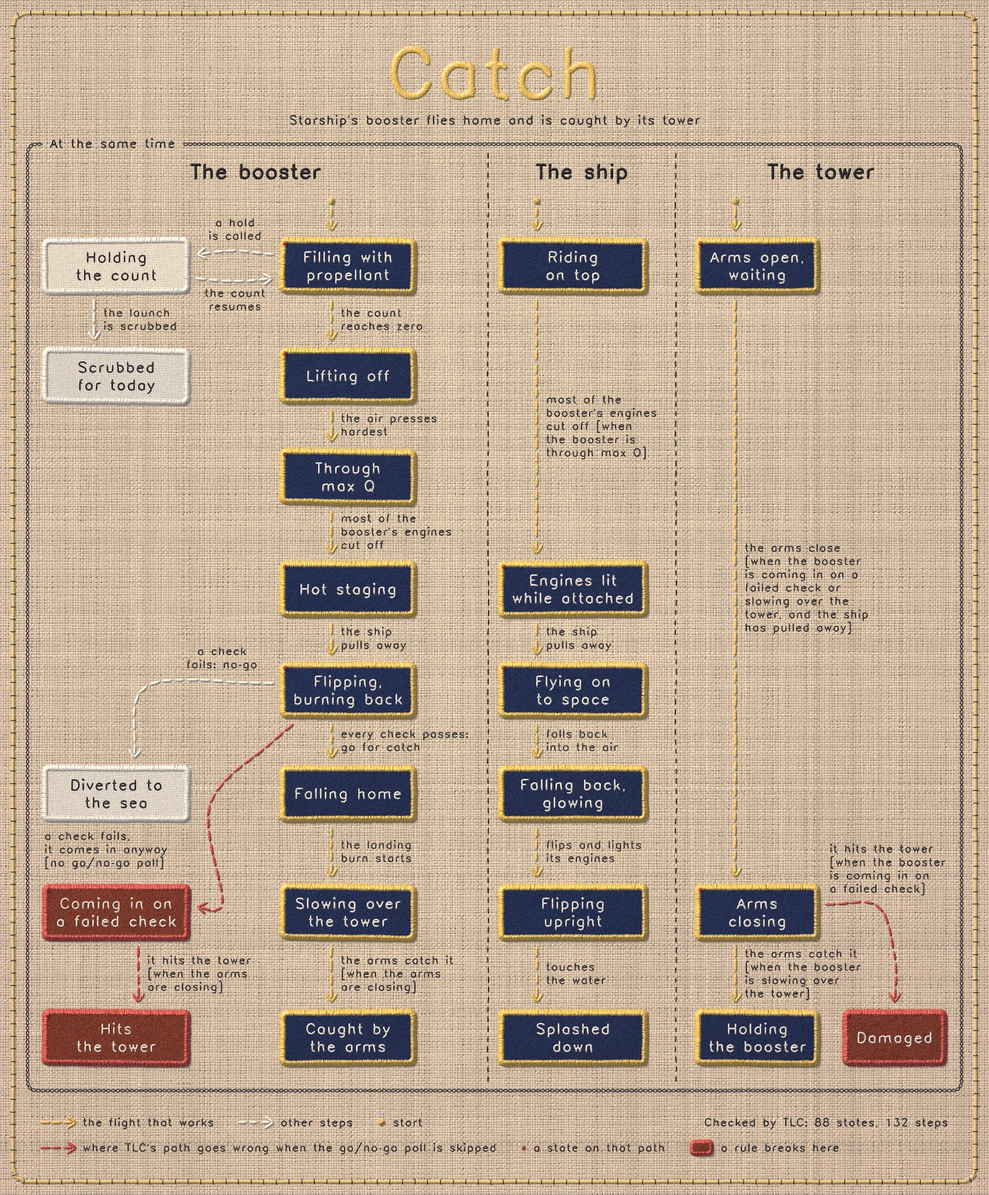
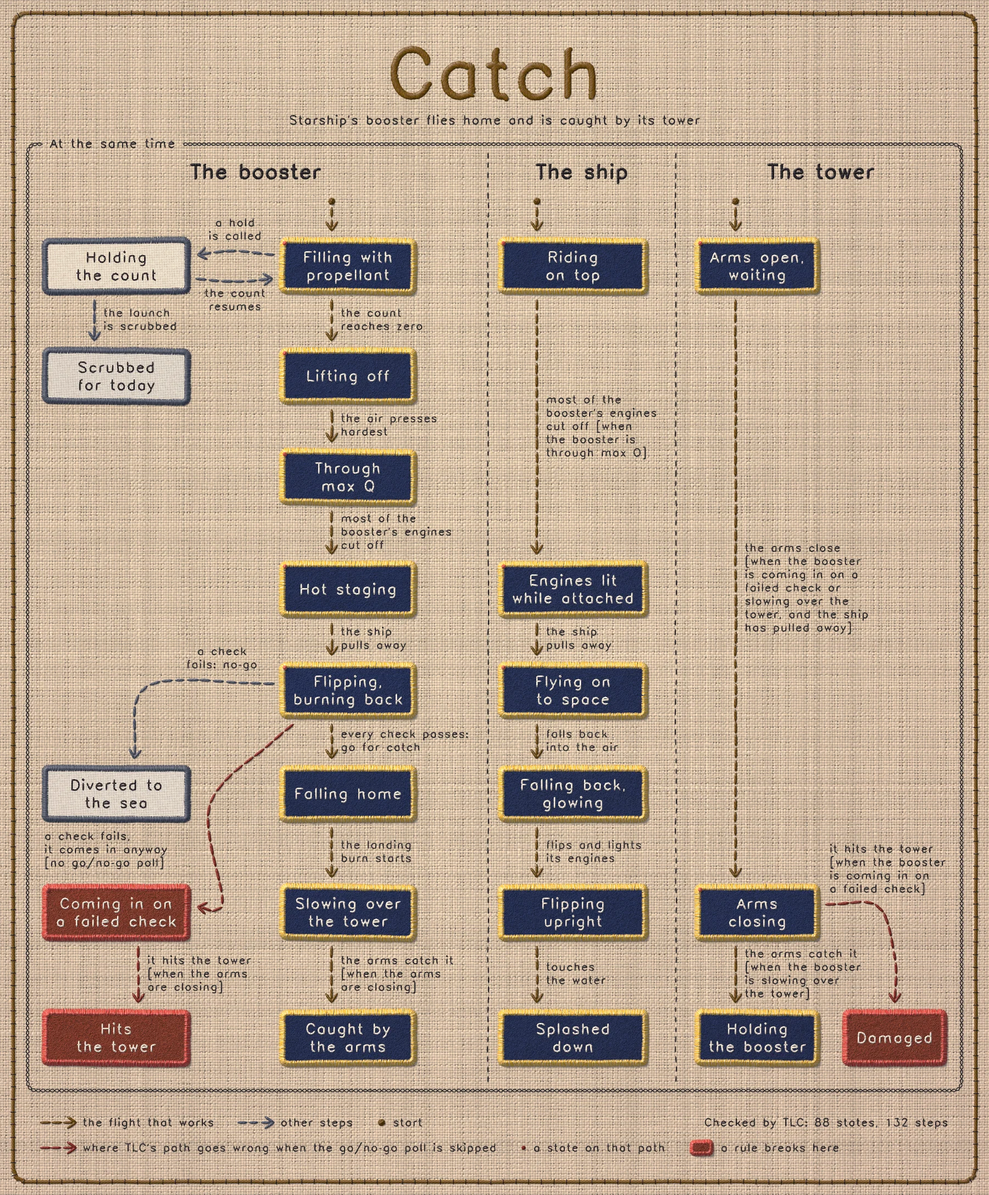
Catch: stitch the sampler's threads in colours that meet WCAG 2.2 AA
The gold thread on the linen sat at about 1:1 against it, the cream
stitches at 1.4:1 and the red path at 2.8:1. Thread stitched straight onto
the linen is now a deep antique gold for the flight that works and the
title, a darker brick red for the bug path, and slate grey for every other
way it can go, all well over 3:1 at the stitch cores. The bright gold
stays on the navy felt borders, and the knots marking the bug path on
navy felt are a lighter red so they stand out there too. The page text
and the alt text now say grey instead of cream.

diff --git a/catch/art/sampler.js b/catch/art/sampler.js
@@ -18,6 +18,7 @@ const ARG = (k, d) => { const a = process.argv.find((s) => s.startsWith('--' + k
 const PAL = {
   ink: '#1d1a1e', gold: '#e2b33f', goldPale: '#f6ecd2', red: '#c4453a', redPale: '#ef9a8c', cream: '#efe6d2',
   navy: '#26304f', plum: '#3a2f45', rust: '#7a3b2c', linen: '#e9dfcc',
+  oldGold: '#674709', oldGoldPale: '#9a6d22', brick: '#7f2820', brickPale: '#9c3a2c', slate: '#4a5160', slatePale: '#6a717e', knotRed: '#e2584a',
 };
 
 const probe = createCanvas(8, 8).getContext('2d');
@@ -61,15 +62,15 @@ const BUG = new Set(['s0', 's2', 's3', 's5', 's6', 's9', 's11', 's13', 's14', 's
 const REGIONS = [['booster', 'The booster'], ['ship', 'The ship'], ['tower', 'The tower']];
 
 const ARROWS = [
-  ['s0', 's1', ['a hold', 'is called'], 'cream'],
+  ['s0', 's1', ['a hold', 'is called'], 'grey'],
   ['s0', 's2', ['the count', 'reaches zero'], 'gold'],
-  ['s1', 's0', ['the count', 'resumes'], 'cream'],
-  ['s1', 's4', ['the launch', 'is scrubbed'], 'cream'],
+  ['s1', 's0', ['the count', 'resumes'], 'grey'],
+  ['s1', 's4', ['the launch', 'is scrubbed'], 'grey'],
   ['s2', 's3', ['the air presses', 'hardest'], 'gold'],
   ['s3', 's5', ['most of the', 'booster’s engines', 'cut off'], 'gold'],
   ['s5', 's6', ['the ship', 'pulls away'], 'gold'],
   ['s6', 's7', ['every check passes:', 'go for catch'], 'gold'],
-  ['s6', 's8', ['a check', 'fails: no-go'], 'cream'],
+  ['s6', 's8', ['a check', 'fails: no-go'], 'grey'],
   ['s6', 's9', ['a check fails,', 'it comes in anyway', '[no go/no-go poll]'], 'red'],
   ['s7', 's10', ['the landing', 'burn starts'], 'gold'],
   ['s9', 's11', ['it hits the tower', '[when the arms', 'are closing]'], 'red'],
@@ -215,13 +216,13 @@ async function wire(L, R, LB) {
   g.fillStyle = '#d9cdb3'; g.fillRect(0, 0, L.W, L.H);
   g.strokeStyle = PAL.ink; g.lineWidth = 2; g.strokeRect(L.F.x0, L.F.y0, L.F.x1 - L.F.x0, L.F.y1 - L.F.y0);
   g.setLineDash([12, 9]); for (const x of L.seps) { g.beginPath(); g.moveTo(x, L.F.y0 + 14); g.lineTo(x, L.F.y1 - 14); g.stroke(); } g.setLineDash([]);
-  const fill = { path: PAL.navy, side: PAL.linen, breaks: PAL.rust }, edge = { path: PAL.gold, side: PAL.cream, breaks: PAL.red };
+  const fill = { path: PAL.navy, side: PAL.linen, breaks: PAL.rust }, edge = { path: PAL.gold, side: PAL.slate, breaks: PAL.red };
   for (const s of STATES) {
     const b = L.P[s.id]; g.fillStyle = fill[s.kind]; g.fillRect(b.x0, b.y0, b.w, b.h); g.strokeStyle = edge[s.kind]; g.lineWidth = 9; g.strokeRect(b.x0 + 4.5, b.y0 + 4.5, b.w - 9, b.h - 9);
     g.fillStyle = s.kind === 'side' ? PAL.ink : PAL.cream; g.font = `${SZ.state}px "${FACE}"`; g.textAlign = 'center';
     const n = s.lines.length; s.lines.forEach((t, i) => g.fillText(t, b.cx, b.cy + (i - (n - 1) / 2) * SZ.state * LP + SZ.state * 0.36));
   }
-  const tc = { gold: PAL.gold, red: PAL.red, cream: '#f8f2e4' };
+  const tc = { gold: PAL.oldGold, red: PAL.brick, grey: PAL.slate };
   for (const a of ARROWS) {
     const pts = smoothPath(R[a.from + '>' + a.to]); g.strokeStyle = tc[a.thread]; g.lineWidth = 4; g.setLineDash([13, 7]);
     g.beginPath(); pts.forEach((p, i) => (i ? g.lineTo(...p) : g.moveTo(...p))); g.stroke(); g.setLineDash([]);
@@ -258,9 +259,13 @@ const TH = {
   red: { col: lin(PAL.red), pale: lin(PAL.redPale), plies: 6, spec: 0.28 },
   cream: { col: lin(PAL.cream), pale: null, plies: 3, spec: 0.22 },
   ink: { col: lin(PAL.ink), pale: lin('#3a343c'), plies: 5, spec: 0.22 },
+  oldGold: { col: lin(PAL.oldGold), pale: lin(PAL.oldGoldPale), plies: 6, spec: 0.3 },
+  brick: { col: lin(PAL.brick), pale: lin(PAL.brickPale), plies: 6, spec: 0.26 },
+  slate: { col: lin(PAL.slate), pale: lin(PAL.slatePale), plies: 4, spec: 0.2 },
+  knot: { col: lin(PAL.knotRed), pale: lin(PAL.redPale), plies: 6, spec: 0.28 },
 };
 
-const RTH = { gold: { ...TH.gold, plies: 7 }, red: { ...TH.red, plies: 7 }, cream: TH.cream, ink: TH.ink };
+const RTH = { gold: { ...TH.oldGold, plies: 7 }, red: { ...TH.brick, plies: 7 }, grey: TH.slate, ink: TH.ink };
 const RUN = { w: 5.0, dash: 18, gap: 5.5, head: true, headLen: 18, flat: 0.5, taper: 0.74 };
 
 function cloth(w, h) { const n = w * h; return { w, h, H: new Float32Array(n), R: new Float32Array(n), G: new Float32Array(n), B: new Float32Array(n), S: new Float32Array(n) }; }
@@ -699,12 +704,12 @@ async function render(L, R, LB) {
   const linenC = lin(PAL.linen);
   weave(C, { pitch: 4.7 * K, thick: 0.74 * K, arc: 0.44 * K, color: mixc(linenC, lin('#c6ae88'), 0.62), seed: 'ground' });
   log('linen');
-  cordFrame(C, 24, 24, Wf - 24, Hf - 24, 20, { w: 6.4, th: { ...TH.gold, plies: 3 }, tack: 23, tw: 1.7, tackTh: TH.ink });
+  cordFrame(C, 24, 24, Wf - 24, Hf - 24, 20, { w: 6.4, th: { ...TH.oldGold, plies: 3 }, tack: 23, tw: 1.7, tackTh: TH.ink });
   log('cord');
   const FB = 1.35 * K, OV = 4.3;
   const looks = {
     path: { kind: 'felt', color: lin(PAL.navy), thick: 5.4 * K, edge: TH.gold, text: TH.cream },
-    side: { kind: 'linen', color: linenC, thick: 1.5 * K, edge: TH.cream, text: TH.ink },
+    side: { kind: 'linen', color: linenC, thick: 1.5 * K, edge: TH.slate, text: TH.ink },
     breaks: { kind: 'felt', color: lin(PAL.rust), thick: 5.4 * K, edge: TH.red, text: TH.cream },
   };
   for (const s of STATES) {
@@ -716,7 +721,7 @@ async function render(L, R, LB) {
     const n = s.lines.length, all = [];
     s.lines.forEach((t, i) => { const w = textW(t, SZ.state), bl = b.cy + (i - (n - 1) / 2) * SZ.state * LP + SZ.state * 0.36; all.push(...letterStitches(t, SZ.state, b.cx - w / 2, bl, { th: lk.text })); });
     sew(C, all);
-    if (BUG.has(s.id)) knot(C, b.x0 + 10.5, b.y0 + 10.5, 4.6, TH.red, 'bug' + s.id);
+    if (BUG.has(s.id)) knot(C, b.x0 + 10.5, b.y0 + 10.5, 4.6, TH.knot, 'bug' + s.id);
   }
   log('patches');
   const F = L.F, fr = 14, frameLabel = 'At the same time', flx = F.x0 + 40, flw = textW(frameLabel, SZ.frame);
@@ -728,7 +733,7 @@ async function render(L, R, LB) {
   for (const [r, name] of REGIONS) { const w = textW(name, SZ.region); stitchText(C, name, SZ.region, (L.col[r][0] + L.col[r][1]) / 2 - w / 2, F.y0 + 62, { th: TH.ink, style: 'satin', sp: 1.5, tw: 1.8, slant: 0.32, hump: 0.5 }); }
   for (const [first, x] of [['s0', L.X.b], ['s13', L.X.ship], ['s19', L.X.tower]]) {
     const ky = F.y0 + 104;
-    knot(C, x, ky, 7.6, TH.gold, 'start' + first);
+    knot(C, x, ky, 7.6, TH.oldGold, 'start' + first);
     running(C, [[x, ky + 12], [x, L.P[first].y0 - 13]], { ...RUN, th: RTH.gold, seed: 'start' + first, wob: 0 });
   }
   log('frame');
@@ -737,7 +742,7 @@ async function render(L, R, LB) {
   for (const [k, b] of Object.entries(LB)) stitchLines(C, b.lines, SZ.label, b, b.align, { th: TH.ink });
   log('labels');
   const tw = textW('Catch', SZ.title);
-  stitchText(C, 'Catch', SZ.title, W / 2 - tw / 2, 176, { th: TH.gold, style: 'satin', sp: 2.4, tw: 2.8, slant: 0.5, hump: 1.6, over: 0.35 });
+  stitchText(C, 'Catch', SZ.title, W / 2 - tw / 2, 176, { th: TH.oldGold, style: 'satin', sp: 2.4, tw: 2.8, slant: 0.5, hump: 1.6, over: 0.35 });
   const sub = 'Starship’s booster flies home and is caught by its tower', sw = textW(sub, SZ.sub);
   stitchText(C, sub, SZ.sub, W / 2 - sw / 2, 226, { th: TH.ink });
   legend(C, L);
@@ -753,11 +758,11 @@ function legend(C, L) {
   const item = (y, draw, text, gap = 44) => { const w = draw(x, y); stitchText(C, text, sz, x + w + 12, y + sz * 0.34, { th: TH.ink }); x += w + 12 + textW(text, sz) + gap; };
   const arrowS = (th) => (xx, y) => { running(C, [[xx, y], [xx + 64, y]], { ...RUN, th, seed: 'leg' + xx + y, wob: 0 }); return 64; };
   item(y1, arrowS(RTH.gold), 'the flight that works');
-  item(y1, arrowS(RTH.cream), 'other steps');
-  item(y1, (xx, y) => { knot(C, xx + 8, y, 7.6, TH.gold, 'legstart'); return 16; }, 'start');
+  item(y1, arrowS(RTH.grey), 'other steps');
+  item(y1, (xx, y) => { knot(C, xx + 8, y, 7.6, TH.oldGold, 'legstart'); return 16; }, 'start');
   x = x0;
   item(y2, arrowS(RTH.red), 'where TLC’s path goes wrong when the go/no-go poll is skipped');
-  item(y2, (xx, y) => { knot(C, xx + 5, y, 4.6, TH.red, 'legbug'); return 10; }, 'a state on that path');
+  item(y2, (xx, y) => { knot(C, xx + 5, y, 4.6, TH.brick, 'legbug'); return 10; }, 'a state on that path');
   item(y2, (xx, y) => {
     const b = { cx: xx + 22, cy: y, w: 44, h: 30 }, fb = feltBox(b, OV2), wob = wobbler('legend', 0.4 * K);
     fb.r = 7 * K;

diff --git a/catch/art/build.js b/catch/art/build.js
@@ -79,10 +79,10 @@ ${st.step ? `<p class="step">${esc(st.step)}</p>` : ''}
   const sampler = JSON.parse(fs.readFileSync(path.join(OUT, 'sampler.json'), 'utf8'));
   const plate = `<section class="plate" id="sampler" aria-labelledby="plate-title"><div class="plate-head">
 <h2 id="plate-title">The whole chart, in thread</h2>
-<p>Every state each part can be in, and every step between them, stitched into one sampler. Gold is the flight that works. Red is where the path TLC found goes wrong when the go/no-go poll is skipped, and a small red knot marks each state on that path. Cream is every other way it can go.</p>
+<p>Every state each part can be in, and every step between them, stitched into one sampler. Gold is the flight that works. Red is where the path TLC found goes wrong when the go/no-go poll is skipped, and a small red knot marks each state on that path. Grey is every other way it can go.</p>
 </div>
 <figure>
-<a href="tex/sampler.webp"><img src="tex/sampler.webp" width="${sampler.width}" height="${sampler.height}" loading="lazy" decoding="async" alt="An embroidered statechart on linen, titled Catch. Under the heading At the same time, three columns run side by side: the booster, the ship and the tower. Navy felt patches with gold borders mark the flight that works, joined by gold running stitches, from Filling with propellant down to Caught by the arms, Splashed down and Holding the booster. Cream linen patches mark holding the count, scrubbing and diverting to the sea. A red stitched path leads to three rust patches where a rule breaks: Coming in on a failed check, Hits the tower, and Damaged."></a>
+<a href="tex/sampler.webp"><img src="tex/sampler.webp" width="${sampler.width}" height="${sampler.height}" loading="lazy" decoding="async" alt="An embroidered statechart on linen, titled Catch. Under the heading At the same time, three columns run side by side: the booster, the ship and the tower. Navy felt patches with gold borders mark the flight that works, joined by gold running stitches, from Filling with propellant down to Caught by the arms, Splashed down and Holding the booster. Linen patches edged in grey mark holding the count, scrubbing and diverting to the sea, joined by grey stitches. A red stitched path leads to three rust patches where a rule breaks: Coming in on a failed check, Hits the tower, and Damaged."></a>
 <figcaption>Drawn in JavaScript, one stitch at a time. See the same chart <a href="chart.svg">as pele draws it</a>, or read its <a href="chart.txt">Mermaid text</a>.</figcaption>
 </figure>
 </section>`;

diff --git a/docs/catch/index.html b/docs/catch/index.html
@@ -128,10 +128,10 @@
 </div></section>
 <section class="plate" id="sampler" aria-labelledby="plate-title"><div class="plate-head">
 <h2 id="plate-title">The whole chart, in thread</h2>
-<p>Every state each part can be in, and every step between them, stitched into one sampler. Gold is the flight that works. Red is where the path TLC found goes wrong when the go/no-go poll is skipped, and a small red knot marks each state on that path. Cream is every other way it can go.</p>
+<p>Every state each part can be in, and every step between them, stitched into one sampler. Gold is the flight that works. Red is where the path TLC found goes wrong when the go/no-go poll is skipped, and a small red knot marks each state on that path. Grey is every other way it can go.</p>
 </div>
 <figure>
-<a href="tex/sampler.webp"><img src="tex/sampler.webp" width="1800" height="2174" loading="lazy" decoding="async" alt="An embroidered statechart on linen, titled Catch. Under the heading At the same time, three columns run side by side: the booster, the ship and the tower. Navy felt patches with gold borders mark the flight that works, joined by gold running stitches, from Filling with propellant down to Caught by the arms, Splashed down and Holding the booster. Cream linen patches mark holding the count, scrubbing and diverting to the sea. A red stitched path leads to three rust patches where a rule breaks: Coming in on a failed check, Hits the tower, and Damaged."></a>
+<a href="tex/sampler.webp"><img src="tex/sampler.webp" width="1800" height="2174" loading="lazy" decoding="async" alt="An embroidered statechart on linen, titled Catch. Under the heading At the same time, three columns run side by side: the booster, the ship and the tower. Navy felt patches with gold borders mark the flight that works, joined by gold running stitches, from Filling with propellant down to Caught by the arms, Splashed down and Holding the booster. Linen patches edged in grey mark holding the count, scrubbing and diverting to the sea, joined by grey stitches. A red stitched path leads to three rust patches where a rule breaks: Coming in on a failed check, Hits the tower, and Damaged."></a>
 <figcaption>Drawn in JavaScript, one stitch at a time. See the same chart <a href="chart.svg">as pele draws it</a>, or read its <a href="chart.txt">Mermaid text</a>.</figcaption>
 </figure>
 </section>
